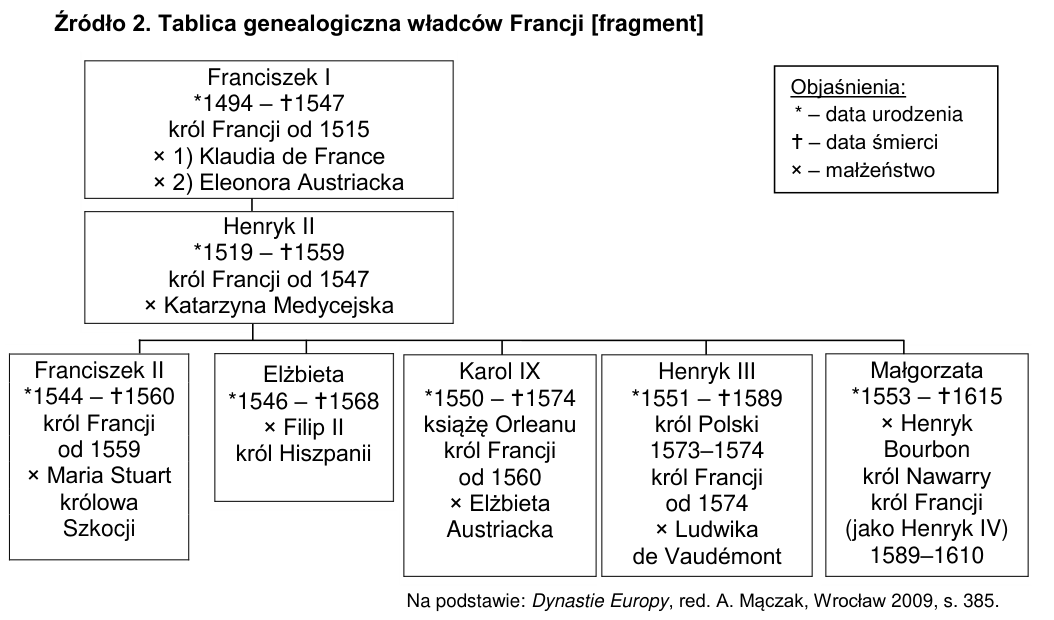
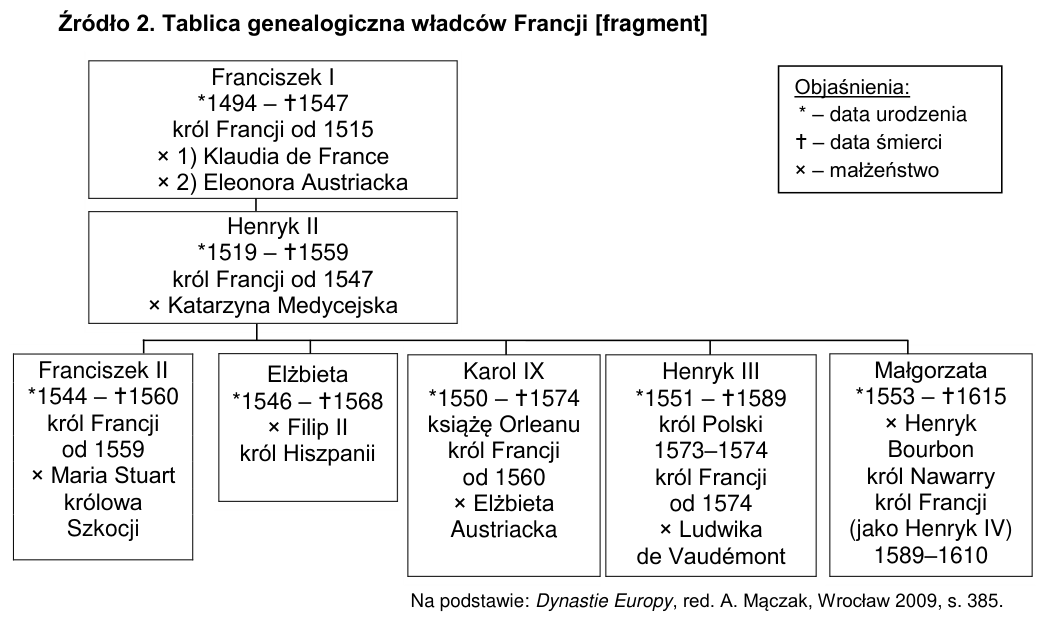
Layout overrides for side-by-side text (2024-maj zad15 poems, 2026-maj zad13 captions) and genealogy trees; map PUA dagger
Claude-Session: https://claude.ai/code/session_01TmaWrqyBYLKVgR9D5LWG3Z

diff --git a/scripts/prepare_matura_historia.py b/scripts/prepare_matura_historia.py
@@ -105,11 +105,11 @@ def download(url, dest):
 
 
 def clean(s):
-    s = s.replace(' ', ' ').replace('', '').replace('', '•')
+    s = s.replace(' ', ' ').replace('', '').replace('', '•').replace('\uf085', '†')  # Symbol-font PUA dagger (genealogy trees)
     return re.sub(r'[ \t]+', ' ', s).strip()
 
 
-def page_lines(doc, start_page=0):
+def page_lines(doc, start_page=0, key=None):
     """Yield content lines (and significant image markers) in reading order with positions."""
     out = []
     for pno in range(start_page, len(doc)):
@@ -164,11 +164,89 @@ def page_lines(doc, start_page=0):
             items.append(dict(page=pno, y0=r.y0, y1=r.y1, x0=r.x0, x1=r.x1, text='[OBRAZ]', img=True, rect=[r.x0, r.y0, r.x1, r.y1]))
         # stable reading order: text order from pymupdf sort, images inserted by y
         text_items = [i for i in items if not i['img']]
+        for ov in LAYOUT_OVERRIDES.get((key, pno + 1), []):
+            text_items = apply_layout_override(pg, ov, text_items, [i for i in items if i['img']])
         for im in (i for i in items if i['img']):
             k = next((n for n, t in enumerate(text_items) if t['y0'] > im['y0'] + 1), len(text_items))
             text_items.insert(k, im)
         out.extend(text_items)
     return out
+
+
+# Explicit per-page layout overrides for text that pymupdf's reading order mangles, verified against the PDF block
+# coordinates (1-based page numbers; y bands in pt). Inside a band the text is rebuilt from words:
+#  - 'columns': two side-by-side columns, split at x; left column first, then right, each top to bottom.
+#  - 'boxes': a genealogy tree drawn as boxes (drawn rectangles / image blocks); one line per row of boxes,
+#    "[box] | [box]", rows top to bottom; the box images in the band give a single [OBRAZ] marker.
+LAYOUT_OVERRIDES = {
+    # zad15: Wersja A (x 76-294, the critical mazurka) and Wersja B (x 303-522) printed side by side; pymupdf
+    # interleaved them so the A text followed the "Wersja B:" label (key 15.2 = A looked wrong).
+    ('2024-maj', 18): [dict(y=(270, 462), mode='columns', split=298)],
+    # zad11: tree of French kings (boxes y 91-347, legend box x 416-524); dates were detached from rulers.
+    ('2024-maj', 14): [dict(y=(88, 350), mode='boxes')],
+    # zad5: Przemyślid tree, boxes are image blocks y 116-632 (11 [OBRAZ] markers, dates detached from rulers).
+    ('2025-maj', 8): [dict(y=(110, 635), mode='boxes')],
+    # zad13: stamp captions B (x 71-224) and C (x 252-508) on one physical line at y 466.
+    ('2026-maj', 14): [dict(y=(463, 491), mode='columns', split=240, labels=('B', 'C'), join=True)],
+}
+
+
+def apply_layout_override(pg, ov, text_items, img_items):
+    y0, y1 = ov['y']
+    keep = [t for t in text_items if not (y0 <= t['y0'] <= y1)]
+    pos = next((n for n, t in enumerate(text_items) if y0 <= t['y0'] <= y1), len(text_items))
+    pos = sum(1 for t in text_items[:pos] if not (y0 <= t['y0'] <= y1))
+    words = [w for w in pg.get_text('words') if y0 <= w[1] <= y1 and 60 < (w[0] + w[2]) / 2 < pg.rect.width - 58]
+    pno = text_items[0]['page'] if text_items else pg.number
+
+    def lines_of(ws):
+        g = defaultdict(list)
+        for w in ws:
+            g[(w[5], w[6])].append(w)
+        out = []
+        for ls in g.values():
+            ls.sort(key=lambda w: w[0])
+            out.append(dict(page=pno, y0=min(w[1] for w in ls), y1=max(w[3] for w in ls), x0=ls[0][0],
+                            x1=ls[-1][2], text=clean(' '.join(w[4] for w in ls)), img=False, nl=True))
+        return sorted(out, key=lambda l: (round(l['y0']), l['x0']))
+
+    if ov['mode'] == 'columns':
+        cols = [lines_of([w for w in words if (w[0] + w[2]) / 2 < ov['split']]),
+                lines_of([w for w in words if (w[0] + w[2]) / 2 >= ov['split']])]
+        if ov.get('join'):  # each column is one caption
+            cols = [[dict(c[0], text=' '.join(l['text'] for l in c))] if c else [] for c in cols]
+        for lab, col in zip(ov.get('labels', ()), cols):  # caption columns belong to figures labelled e.g. B, C
+            if col:
+                col[0]['text'] = f'{lab} – {col[0]["text"]}'
+        new = cols[0] + cols[1]
+    else:
+        rects = [d['rect'] for d in pg.get_drawings() if d['rect'].width > 30 and d['rect'].height > 12 and
+                 y0 <= d['rect'].y0 <= y1] + [i and pymupdf.Rect(i['rect']) for i in img_items if y0 <= i['y0'] <= y1]
+        boxes, loose = defaultdict(list), []
+        for w in words:
+            c = pymupdf.Point((w[0] + w[2]) / 2, (w[1] + w[3]) / 2)
+            inr = [r for r in rects if c in r]
+            if inr:
+                r = min(inr, key=lambda r: r.width * r.height)
+                boxes[(round(r.x0), round(r.y0))].append(w)
+            else:
+                loose.append(w)
+        bl = []
+        for (bx, by), ws in boxes.items():
+            t = ' '.join(l['text'] for l in lines_of(ws))
+            bl.append(dict(page=pno, y0=by, y1=by, x0=bx, x1=bx, text=f'[{t}]', img=False, nl=True))
+        rows = []
+        for b in sorted(bl, key=lambda b: b['y0']):
+            if rows and b['y0'] - rows[-1][0]['y0'] < 10:
+                rows[-1].append(b)
+            else:
+                rows.append([b])
+        new = [dict(r[0], text=' | '.join(b['text'] for b in sorted(r, key=lambda b: b['x0']))) for r in rows]
+        new = sorted(new + lines_of(loose), key=lambda l: l['y0'])
+        band_imgs = sorted((i for i in img_items if y0 <= i['y0'] <= y1), key=lambda i: i['y0'])
+        for i in band_imgs[1:]:
+            i['hide'] = True  # the boxes themselves; one [OBRAZ] for the whole tree
+    return keep[:pos] + new + keep[pos:]
 
 
 def strip_answer_lines(lines):
@@ -189,18 +267,20 @@ def strip_answer_lines(lines):
 
 def join_text(lines):
     """Join physical lines into paragraphs-ish text; keep list-like lines on their own."""
-    out = []
+    out, last_nl = [], False
     for l in lines:
         t = l['text']
+        prev_nl, last_nl = last_nl, l.get('nl', False)  # lines from a layout override stand on their own
         if l['img']:
-            out.append('\n[OBRAZ]\n')
+            if not l.get('hide'):
+                out.append('\n[OBRAZ]\n')
             continue
         if out and not out[-1].endswith('\n'):
             prev = out[-1]
             if prev.endswith('-') and not prev.endswith(' -') and re.match(r'[a-ząćęłńóśźż]', t):
                 out[-1] = prev[:-1] + t
                 continue
-            if re.match(r'^([A-F]\.|\d+\.|•|–|Źródło|Fragment|Temat|Rozstrzygnięcie|Uzasadnienie|P$|F$|Tak$|Nie$)', t) or \
+            if l.get('nl') or prev_nl or re.match(r'^([A-F]\.|\d+\.|•|–|Źródło|Fragment|Temat|Rozstrzygnięcie|Uzasadnienie|P$|F$|Tak$|Nie$)', t) or \
                re.search(r'[.:;!?”"]$', prev) and (t[:1].isupper() or t[:1].isdigit()):
                 out.append('\n' + t)
             else:
@@ -586,7 +666,7 @@ def parse_660(path):
 def build_session(key, spec, raw, img_dir, report):
     year, session, formula, date, a_url, z_url, _ = spec
     doc = pymupdf.open(raw / f'{key}-arkusz.pdf')
-    lines = page_lines(doc)
+    lines = page_lines(doc, key=key)
     first = next(i for i, l in enumerate(lines) if HEADER_RE.match(l['text']) and HEADER_RE.match(l['text']).group(1) == '1')
     lines = strip_answer_lines(lines[first:])
     segs = split_tasks(lines)
